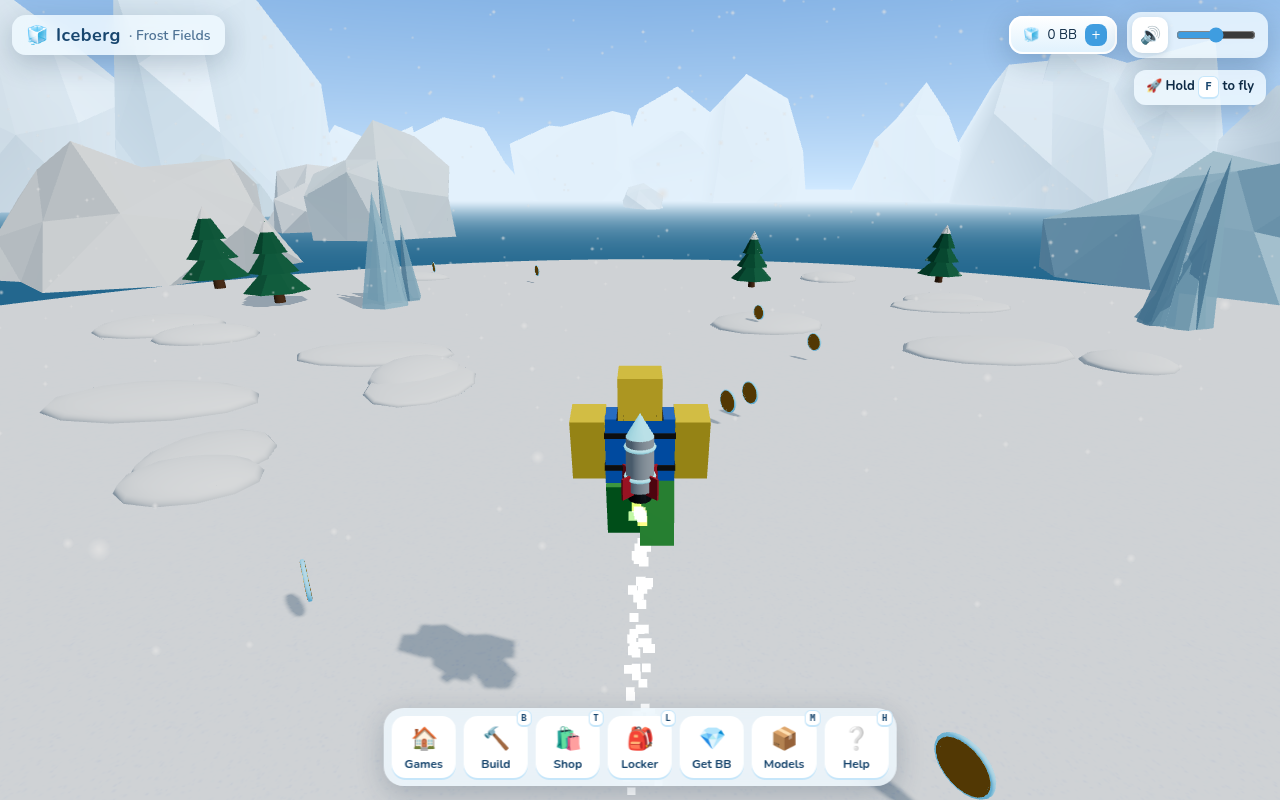
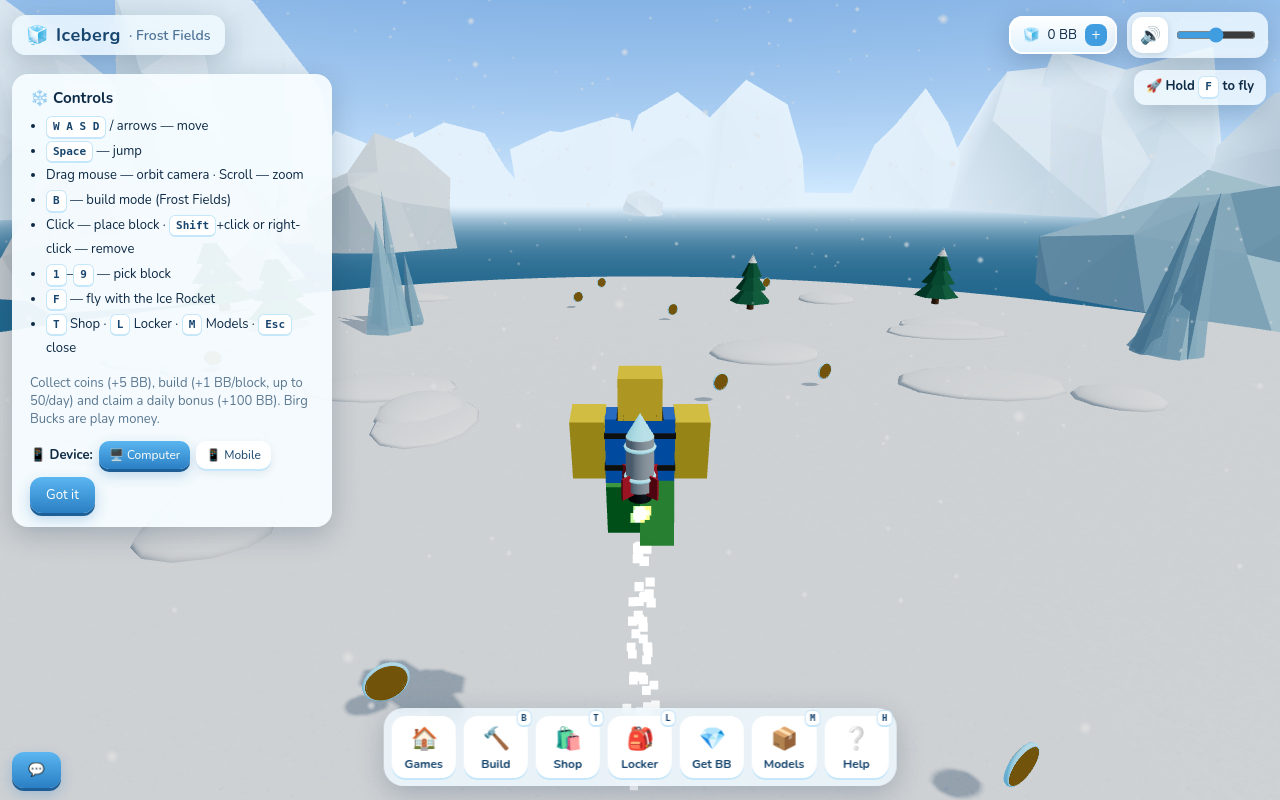
Cosmetics: Frosted Round Spectacles (frost_specs, face, 160 BB) and Snow Owl Hood (owl_hood, hat, 280 BB) with 4 color presets each; preview framing for face slot; locker/rocket test scripts

diff --git a/src/game/avatar.js b/src/game/avatar.js
@@ -1,5 +1,6 @@
 // Blocky Roblox-style avatar + 3D cosmetics. Shared across every game.
 import * as THREE from 'three';
+import { RoundedBoxGeometry } from 'three/examples/jsm/geometries/RoundedBoxGeometry.js';
 import { COSMETIC_BY_ID } from '../data/cosmetics.js';
 
 const DEFAULT = { skin: '#f5cd30', torso: '#3d7bd9', legs: '#4a9e4a' };
@@ -40,6 +41,8 @@ const BUILDERS = {
   earmuffs(_rc, color) { return buildEarmuffs(color); },
   snowglobe_pack(_rc, color) { return buildSnowGlobe(color); },
   cocoa_mug(_rc, color) { return buildCocoaMug(color); },
+  owl_hood(_rc, color) { return buildOwlHood(color); },
+  frost_specs(_rc, color) { return buildFrostSpecs(color); },
   cable_sweater(_rc, color) { return buildSweater(color); },
   frost_lantern(_rc, color) { return buildFrostLantern(color); },
   penguin_pal(_rc, color) { return buildPenguinPal(color); },
@@ -559,6 +562,114 @@ function buildSweater(color) {
     for (const m of ribs) { const nt = ribTexture(col); nt.repeat.copy(m.map.repeat); m.map.dispose(); m.map = nt; m.needsUpdate = true; }
   };
   return { bone: 'torso', object: g, extras };
+}
+
+let _frostLensTex = null;
+function frostLensTexture() {
+  if (_frostLensTex) return _frostLensTex;
+  const c = document.createElement('canvas'); c.width = c.height = 128;
+  const g = c.getContext('2d');
+  const gr = g.createRadialGradient(64, 64, 20, 64, 64, 64);
+  gr.addColorStop(0, 'rgba(235,248,255,0.08)'); gr.addColorStop(0.65, 'rgba(235,248,255,0.25)'); gr.addColorStop(1, 'rgba(255,255,255,0.95)');
+  g.fillStyle = gr; g.fillRect(0, 0, 128, 128);
+  // frost ferns creeping in from the rim
+  g.strokeStyle = 'rgba(255,255,255,0.85)'; g.lineCap = 'round';
+  let seed = 11; const rnd = () => (seed = (seed * 9301 + 49297) % 233280) / 233280;
+  const fern = (x, y, a, len, w) => {
+    if (len < 4) return;
+    const x2 = x + Math.cos(a) * len, y2 = y + Math.sin(a) * len;
+    g.lineWidth = w; g.beginPath(); g.moveTo(x, y); g.lineTo(x2, y2); g.stroke();
+    fern(x2, y2, a + 0.5, len * 0.6, w * 0.7); fern(x2, y2, a - 0.5, len * 0.6, w * 0.7);
+  };
+  for (let i = 0; i < 9; i++) { const a = rnd() * Math.PI * 2; fern(64 + Math.cos(a) * 62, 64 + Math.sin(a) * 62, a + Math.PI + (rnd() - 0.5) * 0.6, 12 + rnd() * 8, 2); }
+  // glint
+  g.strokeStyle = 'rgba(255,255,255,0.9)'; g.lineWidth = 5; g.beginPath(); g.arc(64, 64, 40, 3.6, 4.3); g.stroke();
+  _frostLensTex = new THREE.CanvasTexture(c); _frostLensTex.colorSpace = THREE.SRGBColorSpace;
+  return _frostLensTex;
+}
+
+function buildFrostSpecs(color) {
+  const g = new THREE.Group();
+  const frame = std(color, { metalness: 0.85, roughness: 0.25 });
+  const lens = new THREE.MeshStandardMaterial({ map: frostLensTexture(), transparent: true, roughness: 0.1, metalness: 0, depthWrite: false });
+  const EX = 0.107, EY = 0.368, Z = 0.335, R = 0.085;
+  for (const s of [-1, 1]) {
+    g.add(mesh(new THREE.TorusGeometry(R, 0.011, 8, 32), frame, s * EX, EY, Z));
+    const l = mesh(new THREE.CircleGeometry(R, 32), lens, s * EX, EY, Z - 0.002); l.castShadow = false; l.renderOrder = 3; g.add(l);
+    // hinge block + temple arm running back along the side of the head
+    g.add(mesh(new THREE.BoxGeometry(0.03, 0.022, 0.022), frame, s * (EX + R + 0.01), EY + 0.01, Z - 0.005));
+    g.add(mesh(new THREE.BoxGeometry(0.012, 0.014, 0.62), frame, s * 0.322, EY + 0.01, Z - 0.32));
+    const tip = mesh(new THREE.BoxGeometry(0.012, 0.06, 0.014), frame, s * 0.322, EY - 0.025, -0.27); tip.rotation.x = 0.35; g.add(tip);
+    // nose pad
+    g.add(mesh(new THREE.SphereGeometry(0.012, 8, 6), std('#e8f4ff', { transparent: true, opacity: 0.7 }), s * 0.03, EY - 0.05, Z - 0.01));
+  }
+  // arched bridge
+  const bridge = mesh(new THREE.TorusGeometry(0.03, 0.009, 6, 16, Math.PI), frame, 0, EY + 0.005, Z); g.add(bridge);
+  // tiny snowflake stud on the right hinge
+  const flake = snowflakeCharm(0.022); flake.position.set(EX + R + 0.025, EY + 0.012, Z + 0.01); g.add(flake);
+  g.userData.setColor = (c) => frame.color.set(c);
+  return { bone: 'head', object: g };
+}
+
+function drawFeathers(c, color) {
+  const g = c.getContext('2d'), W = c.width, H = c.height;
+  const base = new THREE.Color(color), dark = base.clone().lerp(new THREE.Color('#000'), 0.22), light = base.clone().lerp(new THREE.Color('#fff'), 0.25);
+  g.fillStyle = '#' + base.getHexString(); g.fillRect(0, 0, W, H);
+  const fw = 16, fh = 12;
+  for (let row = -1; row < H / fh + 1; row++) for (let col = -1; col < W / fw + 1; col++) {
+    const x = col * fw + (row % 2) * fw / 2, y = row * fh;
+    g.fillStyle = '#' + light.getHexString(); g.beginPath(); g.arc(x, y, fw * 0.5, 0, Math.PI); g.fill();
+    g.strokeStyle = '#' + dark.getHexString(); g.lineWidth = 1.5; g.beginPath(); g.arc(x, y, fw * 0.5, 0.15, Math.PI - 0.15); g.stroke();
+    if ((row * 7 + col * 3) % 5 === 0) { g.fillStyle = '#' + dark.getHexString(); g.beginPath(); g.ellipse(x, y + 3, 1.6, 2.4, 0, 0, Math.PI * 2); g.fill(); }
+  }
+}
+
+function buildOwlHood(color) {
+  const g = new THREE.Group();
+  const cv = document.createElement('canvas'); cv.width = cv.height = 256; drawFeathers(cv, color);
+  const tex = new THREE.CanvasTexture(cv); tex.colorSpace = THREE.SRGBColorSpace; tex.wrapS = tex.wrapT = THREE.RepeatWrapping; tex.repeat.set(0.55, 0.55);
+  const plume = new THREE.MeshStandardMaterial({ map: tex, bumpMap: tex, bumpScale: 0.8, roughness: 1 });
+  const fluffM = std(_tint(color, '#ffffff', 0.55), { roughness: 1 });
+  const tuftM = std(_tint(color, '#000000', 0.15), { roughness: 1 });
+  const RB = (w, h, d, x, y, z) => mesh(new RoundedBoxGeometry(w, h, d, 3, 0.06), plume, x, y, z);
+  // hood shell around the 0.62 head box (open at the front)
+  g.add(RB(0.76, 0.12, 0.74, 0, 0.67, -0.02));     // crown
+  g.add(RB(0.1, 0.62, 0.74, -0.35, 0.34, -0.02));  // sides
+  g.add(RB(0.1, 0.62, 0.74, 0.35, 0.34, -0.02));
+  g.add(RB(0.76, 0.66, 0.1, 0, 0.33, -0.36));      // back
+  g.add(RB(0.86, 0.12, 0.6, 0, 0.03, -0.12));      // cape collar on the shoulders
+  g.add(RB(0.56, 0.22, 0.12, 0, 0.8, 0.27));       // forehead crest that carries the owl face
+  // fluffy trim framing the face
+  let seed = 5; const rnd = () => (seed = (seed * 9301 + 49297) % 233280) / 233280;
+  const rim = [];
+  for (let i = 0; i <= 22; i++) { const t = i / 22; rim.push(t < 0.5 ? [-0.33 + t * 2 * 0.66, 0.66] : null); }
+  const pts = [];
+  for (let i = 0; i <= 16; i++) pts.push([-0.34, 0.04 + i * 0.04]);
+  for (let i = 1; i < 17; i++) pts.push([-0.34 + i * 0.04, 0.68]);
+  for (let i = 16; i >= 0; i--) pts.push([0.34, 0.04 + i * 0.04]);
+  for (const [x, y] of pts) { const f = mesh(new THREE.SphereGeometry(0.042 + rnd() * 0.014, 10, 8), fluffM, x + (rnd() - 0.5) * 0.012, y + (rnd() - 0.5) * 0.01, 0.335); f.scale.z = 0.7; g.add(f); }
+  // owl face on the crown front
+  const eyeW = std('#f6c445', { roughness: 0.35, emissive: '#7a5200', emissiveIntensity: 0.2 });
+  const pupil = std('#111', { roughness: 0.2 });
+  for (const s of [-1, 1]) {
+    const disc = mesh(new THREE.CircleGeometry(0.09, 24), fluffM, s * 0.12, 0.81, 0.335);  g.add(disc);
+    const eye = mesh(new THREE.SphereGeometry(0.058, 20, 14), eyeW, s * 0.12, 0.81, 0.34); eye.scale.z = 0.5; g.add(eye);
+    g.add(mesh(new THREE.SphereGeometry(0.03, 14, 10), pupil, s * 0.12, 0.81, 0.365));
+    g.add(mesh(new THREE.SphereGeometry(0.01, 6, 4), std('#fff'), s * 0.12 + 0.012, 0.823, 0.392));
+    // ear tufts
+    const tuft = new THREE.Group(); tuft.position.set(s * 0.27, 0.72, 0.05); tuft.rotation.z = -s * 0.45;
+    tuft.add(mesh(new THREE.ConeGeometry(0.07, 0.2, 10), tuftM, 0, 0.09, 0));
+    tuft.add(rotated(mesh(new THREE.ConeGeometry(0.045, 0.15, 8), plume, s * 0.04, 0.06, 0), 'z', -s * 0.4));
+    g.add(tuft);
+  }
+  const beak = mesh(new THREE.ConeGeometry(0.03, 0.08, 4), std('#e8a03a', { roughness: 0.5 }), 0, 0.755, 0.37); beak.rotation.x = Math.PI; g.add(beak);
+  // brow feathers
+  for (const s of [-1, 1]) { const b = mesh(new THREE.BoxGeometry(0.12, 0.022, 0.03), tuftM, s * 0.12, 0.905, 0.33); b.rotation.z = s * 0.3; g.add(b); }
+  g.userData.setColor = (c) => {
+    drawFeathers(cv, c); tex.needsUpdate = true;
+    fluffM.color.copy(_tint(c, '#ffffff', 0.55)); tuftM.color.copy(_tint(c, '#000000', 0.15));
+  };
+  return { bone: 'head', object: g };
 }
 
 export class Avatar {

diff --git a/scripts/rocket-test.html b/scripts/rocket-test.html
@@ -1,0 +1,19 @@
+<!doctype html><html><body style="margin:0"><script type="module">
+import * as THREE from 'three';
+import { Avatar } from '/src/game/avatar.js';
+const r = new THREE.WebGLRenderer({ antialias: true, preserveDrawingBuffer: true }); r.setSize(480, 480); r.outputColorSpace = THREE.SRGBColorSpace; document.body.appendChild(r.domElement);
+const scene = new THREE.Scene(); scene.background = new THREE.Color('#cfe6f5');
+scene.add(new THREE.HemisphereLight('#fff', '#8aa', 1.5)); const d = new THREE.DirectionalLight('#fff', 2); d.position.set(-3, 5, -4); scene.add(d);
+const av = new Avatar(); scene.add(av.root); av.applyLoadout({ equipped: { back: 'icerocket' } });
+const cam = new THREE.PerspectiveCamera(35, 1, 0.1, 50);
+window.shot = (yaw, colors) => {
+  if (colors) av.setRocketColors(colors);
+  for (let i = 0; i < 20; i++) av.animate(0.016, { flying: true });
+  cam.position.set(Math.sin(yaw) * 5, 2.2, Math.cos(yaw) * 5); cam.lookAt(0, 1.6, 0); r.render(scene, cam);
+  const rocket = Object.values(av.attached)[0]; av.root.updateMatrixWorld(true);
+  const n = new THREE.Vector3(); rocket.userData.nozzle.getWorldPosition(n);
+  const box = new THREE.Box3().setFromObject(rocket.children.find(c => c.isGroup));
+  return { nozzle: n.toArray().map(v => +v.toFixed(2)), rocketMinY: +box.min.y.toFixed(2), rocketMaxY: +box.max.y.toFixed(2), rocketZ: [+box.min.z.toFixed(2), +box.max.z.toFixed(2)] };
+};
+window.__ready = true;
+</script></body></html>

diff --git a/scripts/cosmetic-preview.html b/scripts/cosmetic-preview.html
@@ -19,7 +19,7 @@ av.applyLoadout({ equipped: { [item.slot]: id }, cosmeticColors: color ? { [id]:
 for (let i = 0; i < 90; i++) av.animate(1 / 30, {});
 av.bones.armR.rotation.x = 0; av.bones.armL.rotation.x = 0;
 av.bones.legL.rotation.x = av.bones.legR.rotation.x = 0;
-const focus = id === 'penguin_pal' ? [-0.75, 2.15, 0, 1.6] : id === 'frost_lantern' ? [0.75, 0.85, 0, 1.7] : item.slot === 'shirt' ? [0, 1.55, 0, 4.2] : { head: [0, 2.4, 0, 2.6], torso: [0, 1.35, -0.4, 3.6], armR: [0.75, 1.1, 0.35, 2.4] }[{ hat: 'head', back: 'torso', hand: 'armR' }[item.slot]];
+const focus = id === 'penguin_pal' ? [-0.75, 2.15, 0, 1.6] : id === 'frost_lantern' ? [0.75, 0.85, 0, 1.7] : item.slot === 'shirt' ? [0, 1.55, 0, 4.2] : item.slot === 'face' ? [0, 2.35, 0, 1.9] : { head: [0, 2.4, 0, 2.6], torso: [0, 1.35, -0.4, 3.6], armR: [0.75, 1.1, 0.35, 2.4] }[{ hat: 'head', back: 'torso', hand: 'armR' }[item.slot]];
 const yaw = { front: 0, side: id === 'penguin_pal' ? -Math.PI / 2 : Math.PI / 2, threequarter: Math.PI / 4, back: Math.PI, backthreequarter: Math.PI * 0.75 }[angle];
 const cam = new THREE.PerspectiveCamera(35, W / H, 0.1, 50);
 cam.position.set(focus[0] + Math.sin(yaw) * focus[3], focus[1] + (item.slot === 'hand' ? (id === 'frost_lantern' ? 0.3 : 0.9) : 0.25), focus[2] + Math.cos(yaw) * focus[3]);

diff --git a/src/data/cosmetics.js b/src/data/cosmetics.js
@@ -88,3 +88,21 @@ COSMETICS.push({
   desc: 'Chunky cable-knit with a snowflake band, ribbed cuffs and a fold-over collar. Instant fireside vibes.',
 });
 COSMETIC_BY_ID.cable_sweater = COSMETICS[COSMETICS.length - 1];
+
+// Frosted spectacles (face) — color = frame color.
+COSMETICS.push({
+  id: 'frost_specs', name: 'Frosted Round Spectacles', slot: 'face', price: 160, icon: '👓',
+  kind: 'model', winter: true, customizable: true, defaultColor: '#c9a24a',
+  colorPresets: [['Antique Gold', '#c9a24a'], ['Silver Frost', '#cfd8e0'], ['Rose Copper', '#c27a5e'], ['Ink Black', '#24262c']],
+  desc: 'Round wire spectacles with lenses frosted at the edges, like a window on a snowy morning.',
+});
+COSMETIC_BY_ID.frost_specs = COSMETICS[COSMETICS.length - 1];
+
+// Snow Owl Hood (hat) — color = plumage.
+COSMETICS.push({
+  id: 'owl_hood', name: 'Snow Owl Hood', slot: 'hat', price: 280, icon: '🦉',
+  kind: 'model', winter: true, customizable: true, defaultColor: '#f4f1ea',
+  colorPresets: [['Snowy White', '#f4f1ea'], ['Tawny', '#a8743f'], ['Arctic Grey', '#9aa4ad'], ['Midnight', '#2c3550']],
+  desc: 'A plush feathered hood with ear tufts, big golden owl eyes and a fluffy trim that frames your face.',
+});
+COSMETIC_BY_ID.owl_hood = COSMETICS[COSMETICS.length - 1];
